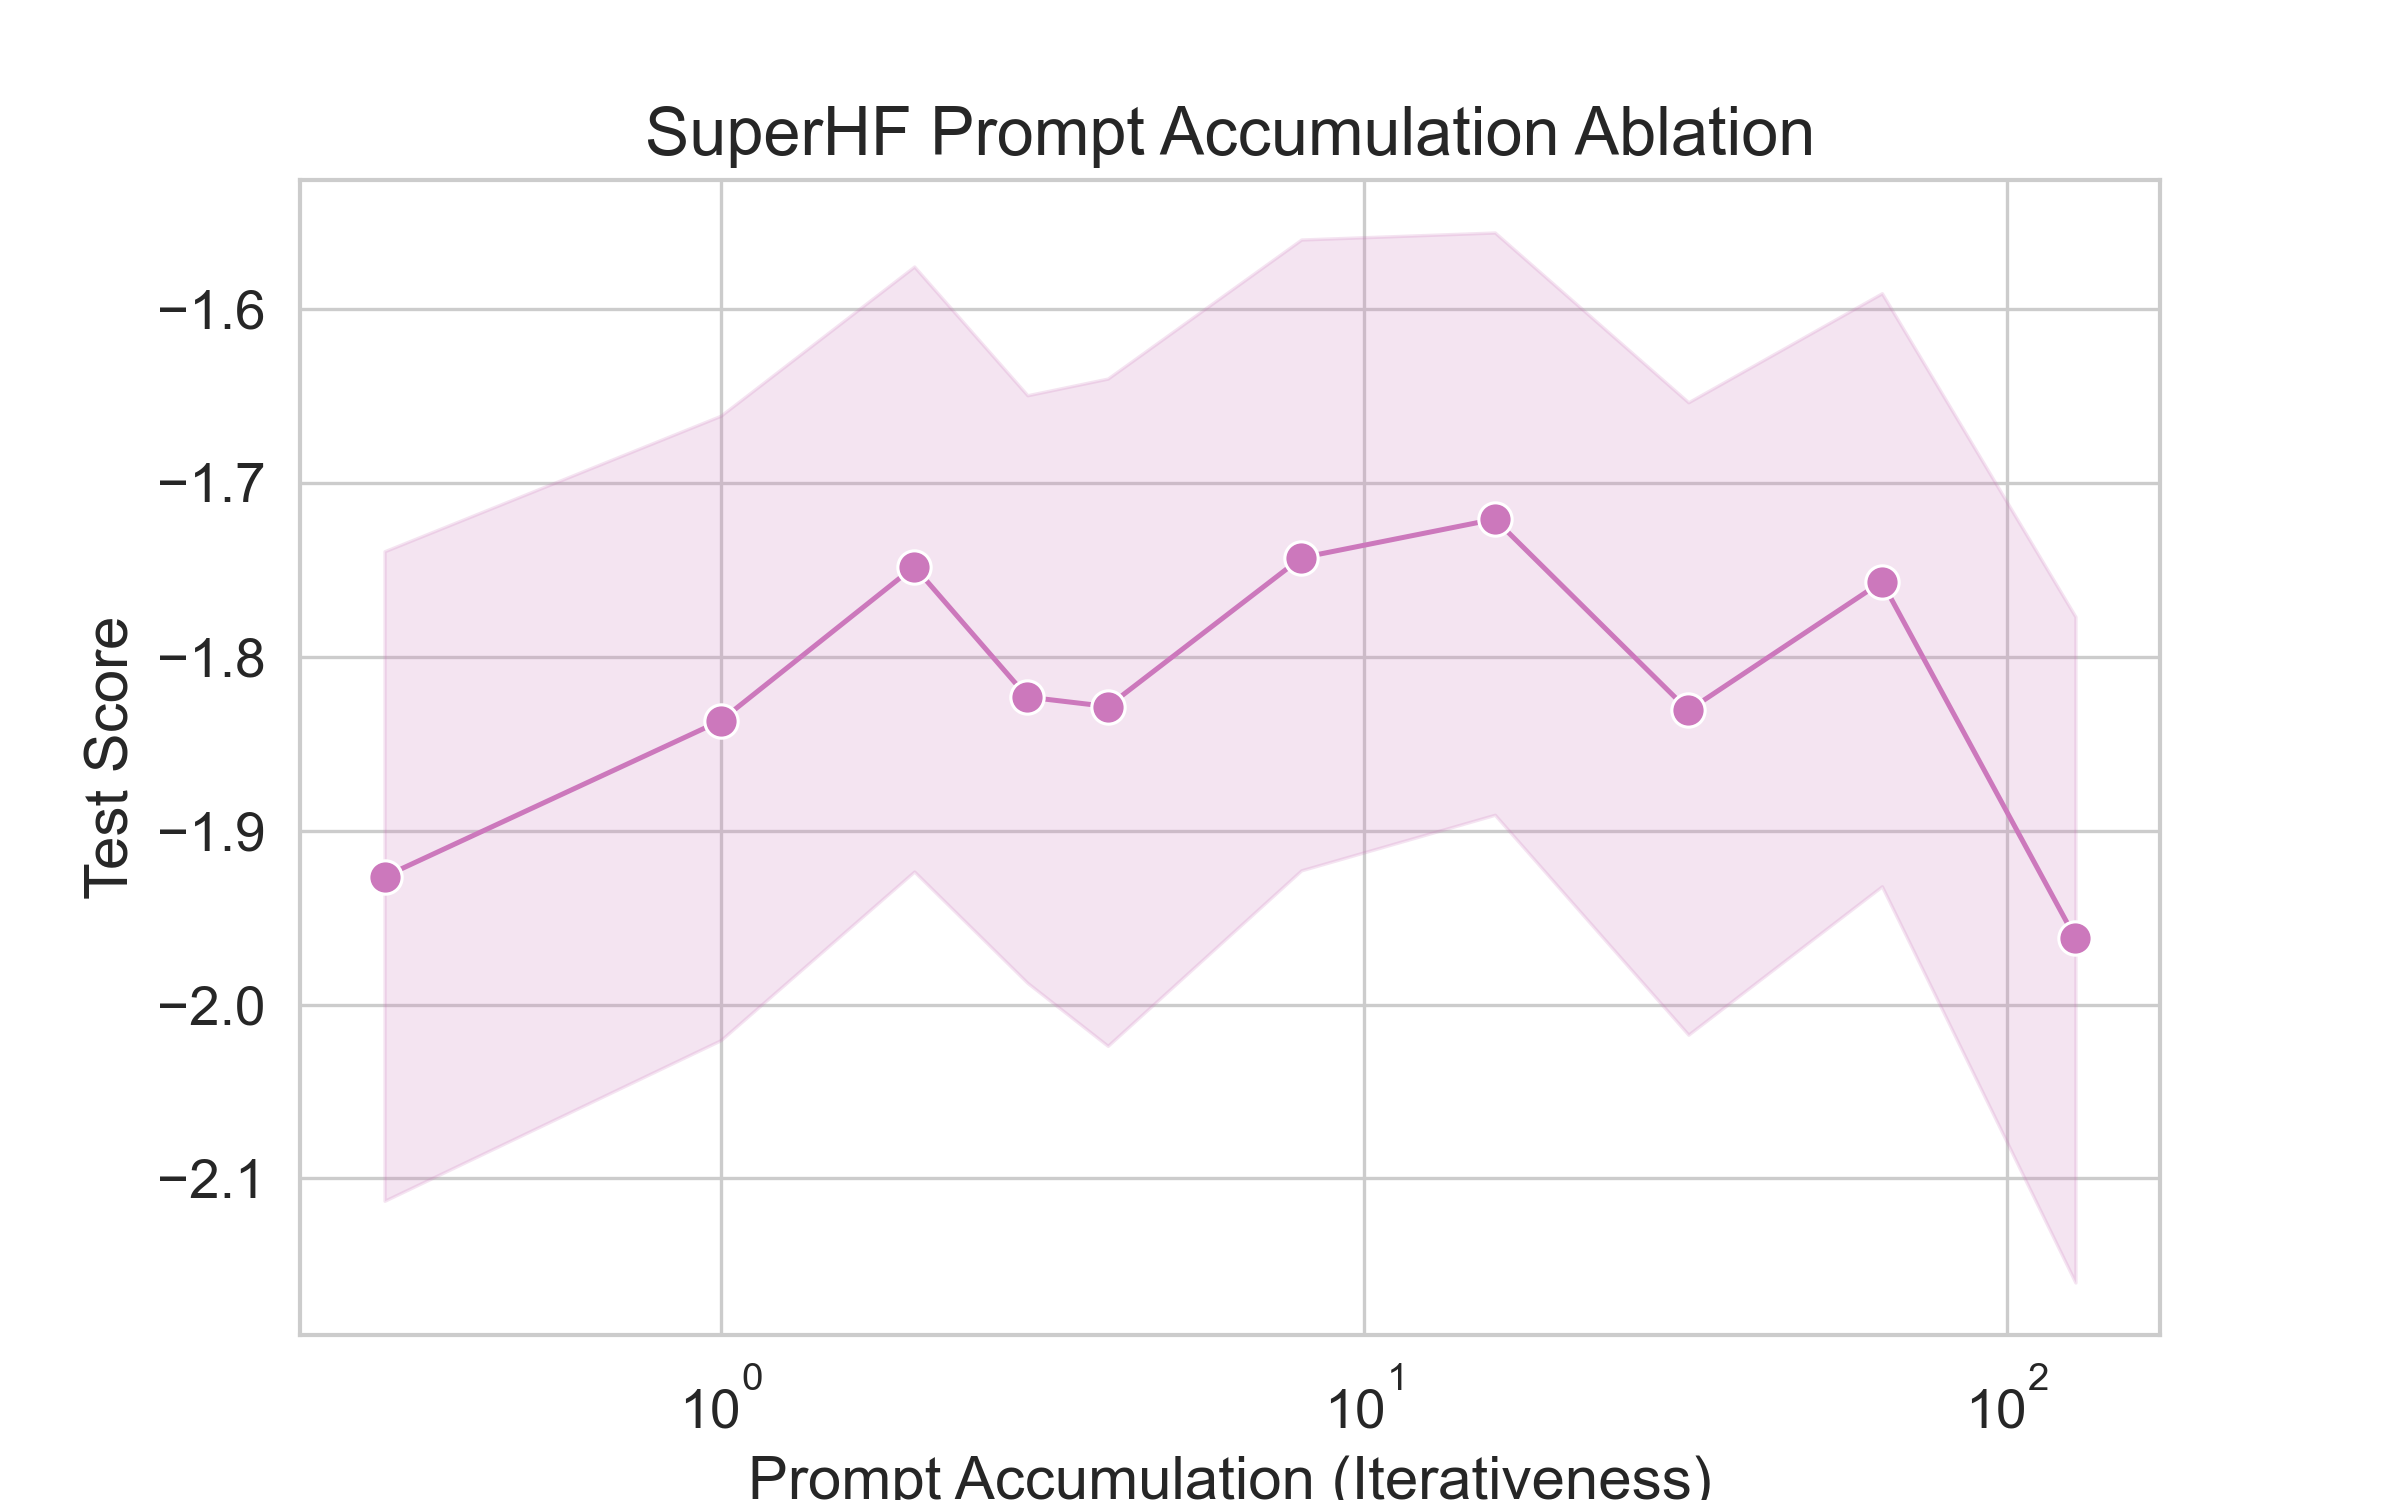
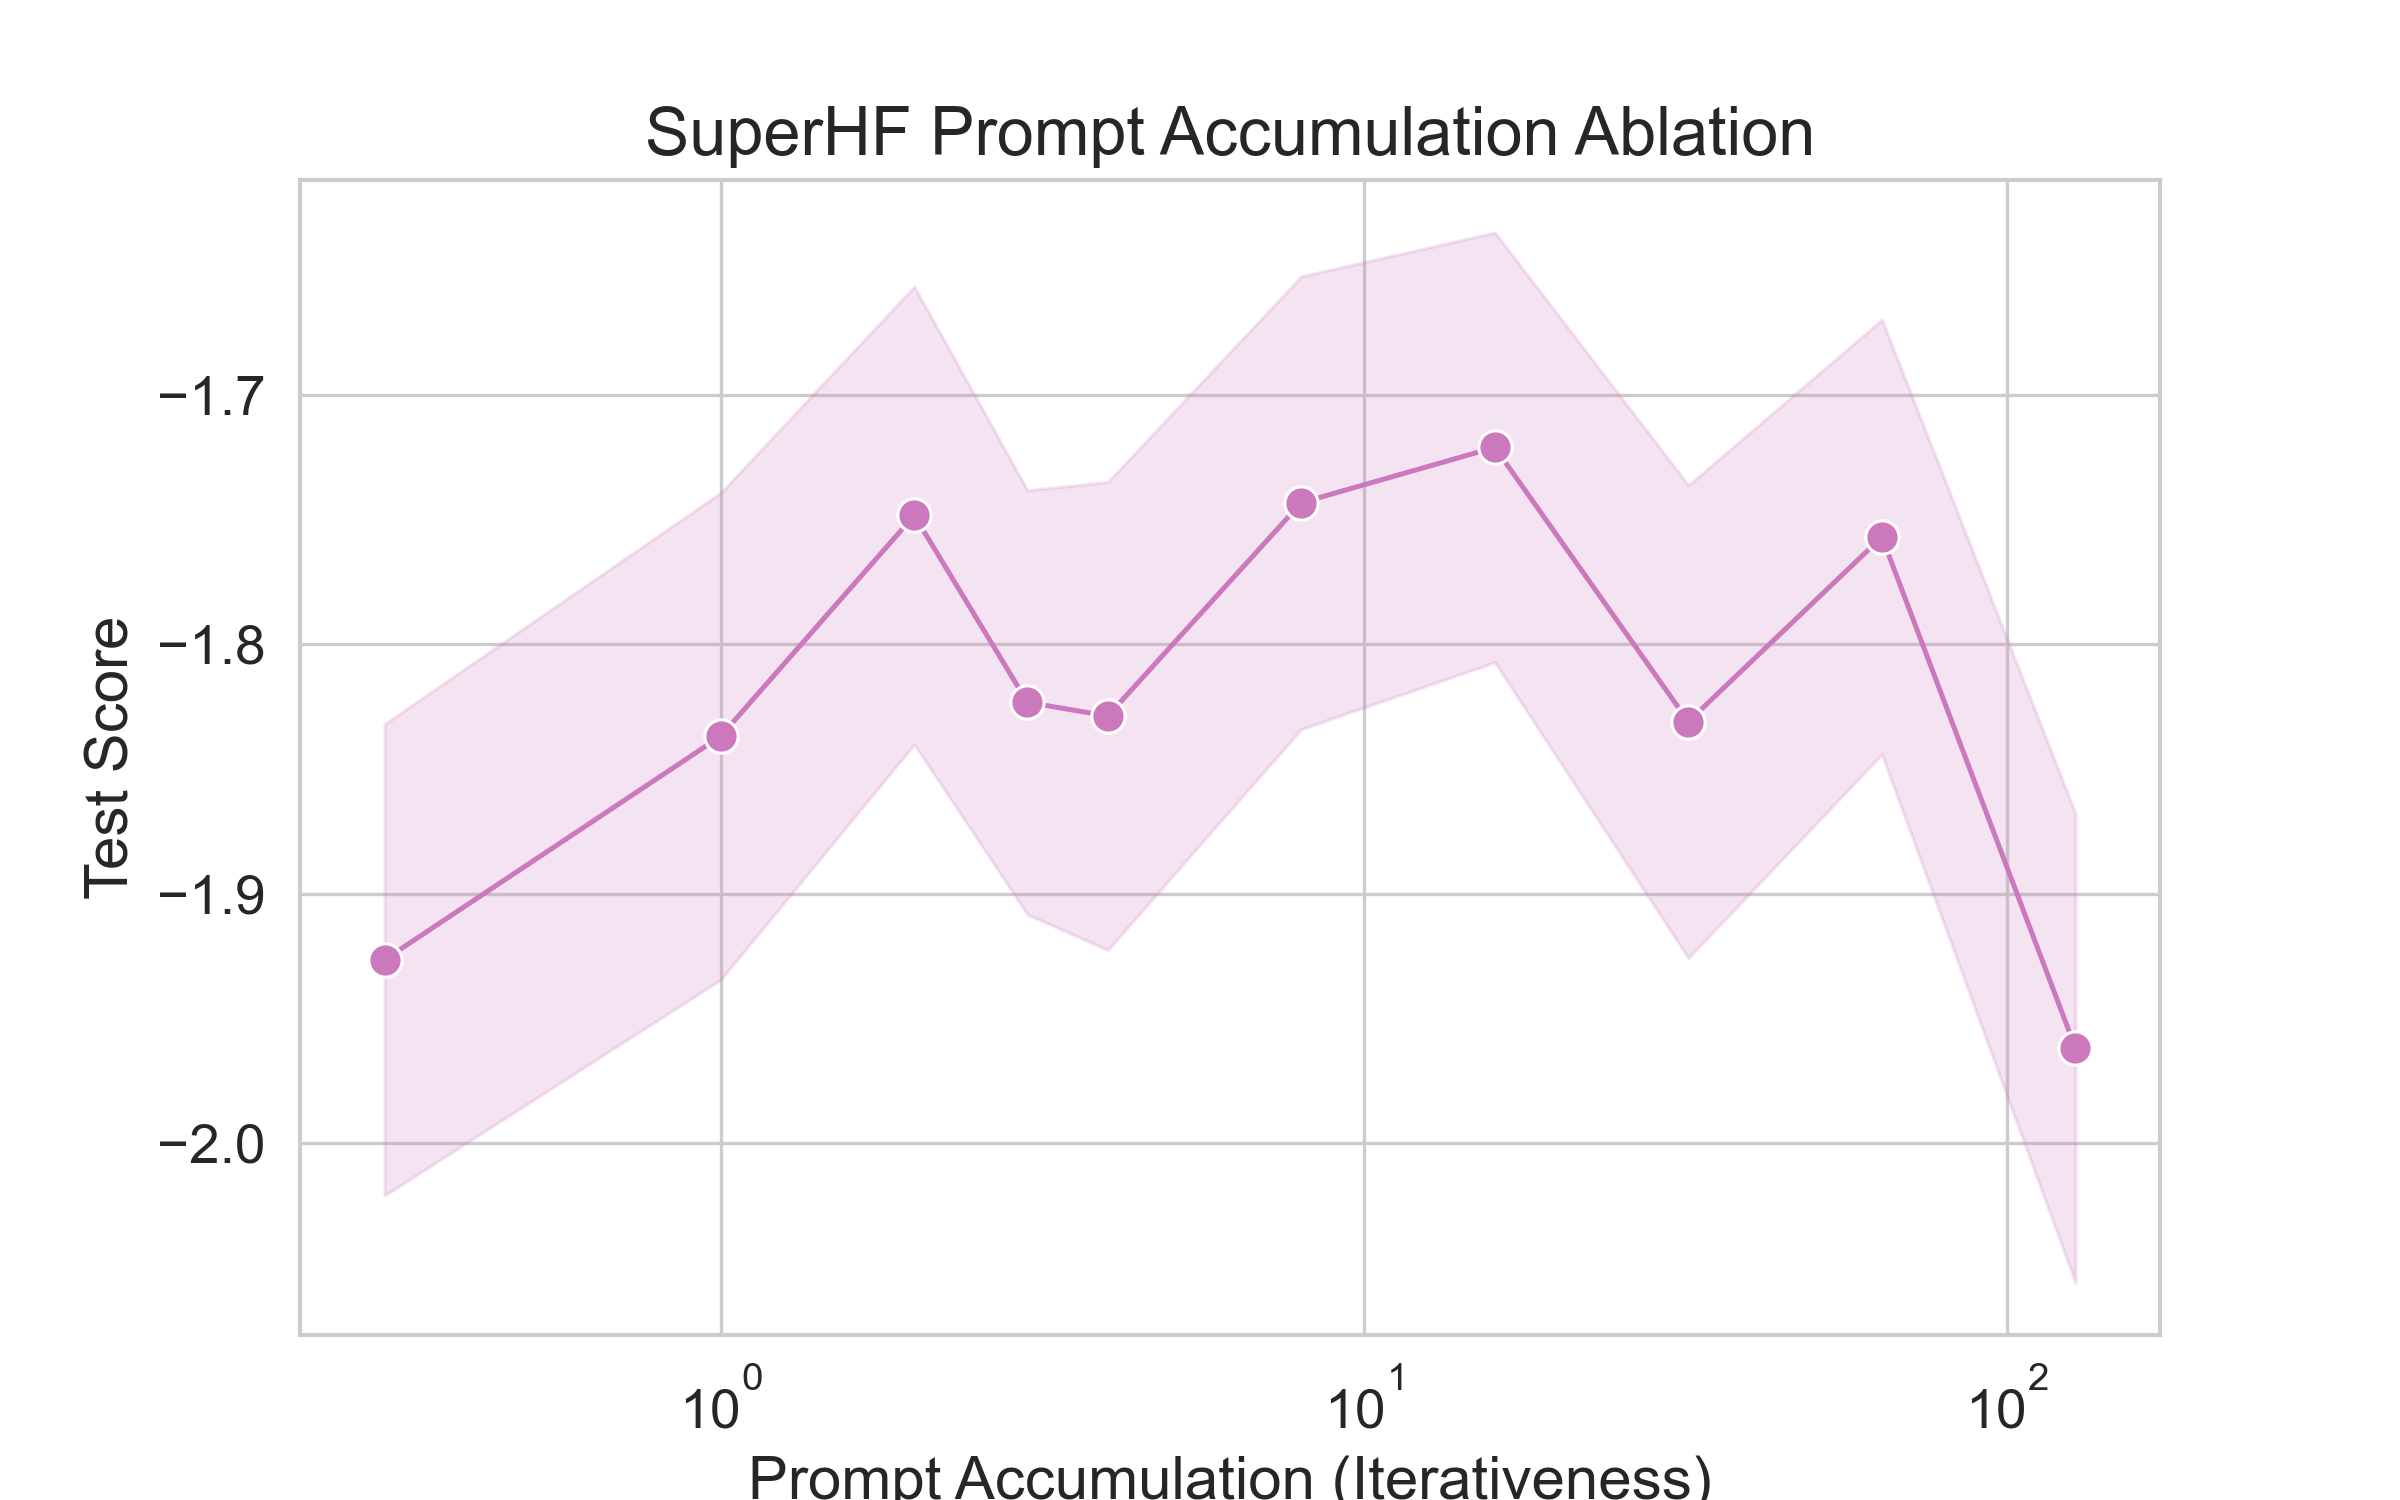
Alter plots

diff --git a/charts/qualitative_radar.py b/charts/qualitative_radar.py
@@ -45,7 +45,7 @@ def main() -> None:
     ]
     tabular_data: dict[str, Any] = {"group": QUALITATIVE_MODEL_ORDER}
     # Manually add Elo scores
-    tabular_data["Elo"] = [
+    tabular_data["Elo Score"] = [
         1220.91,  # LLaMA
         1507.60,  # Alpaca
         1311.50,  # SFT
@@ -74,7 +74,7 @@ def main() -> None:
         dataframe = dataframe.iloc[[1, 3, 4]]
 
     # Normalize each group to go from 0.1 (min) to 1 (max)
-    qualities = ["Elo", "Avoidance", "Bias", "Reward\nGaming", "Relevance"]
+    qualities = ["Elo Score", "Avoidance", "Bias", "Reward\nGaming", "Relevance"]
     for quality_name in qualities:
         dataframe[quality_name] = (
             dataframe[quality_name] - dataframe[quality_name].min()

diff --git a/charts/model_comparsions.py b/charts/model_comparsions.py
@@ -1,5 +1,6 @@
 """Held out test rewards across models."""
 
+import numpy as np
 import matplotlib.pyplot as plt
 import pandas as pd
 import seaborn as sns
@@ -46,6 +47,8 @@ def main() -> None:
         # Unwra
         # Unwrap scores from 2D array
         scores = flatten_2d_vector(scores)
+
+        print(f"{model_name} mean score: {np.mean(scores):.2f}")
 
         # Add the data
         for score in scores:

diff --git a/charts/prompt_accumulation.py b/charts/prompt_accumulation.py
@@ -53,7 +53,7 @@ def main() -> None:
         data=dataframe,
         x="Prompt Accumulation",
         y="Score",
-        errorbar="ci",
+        errorbar="se",
         # marker="",
         # label="Pythia Base",
         color=model_type_to_palette_color("superhf"),
